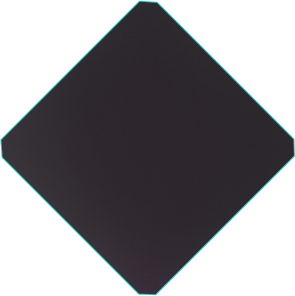
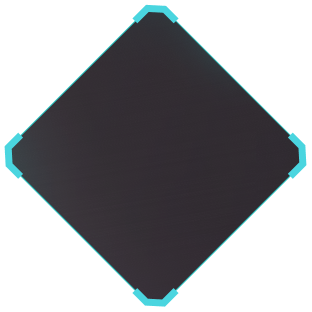
fix: landing page appearence

Changed region(s): [[0.0, 0.0, 1.0, 1.0]]

diff --git a/src/pages/LandingPage/LandingPage.scss b/src/pages/LandingPage/LandingPage.scss
@@ -66,34 +66,39 @@
       &-left {
         background: url("../../assets/img/landing/block-left.png");
         background-size: 570px 138px;
+        margin-right: 20px;
       }
 
       &-right {
         background: url("../../assets/img/landing/block-right.png");
         background-size: 570px 138px;
+        margin-left: 20px;
       }
 
       &-down-left {
         background: url("../../assets/img/landing/block-down-left.png");
         background-size: 570px 138px;
+        margin-right: 20px;
       }
 
       &-down-right {
         background: url("../../assets/img/landing/block-down-right.png");
         background-size: 570px 138px;
+        margin-left: 20px;
       }
 
       &-romb {
         position: relative;
-        top: -280px;
-        width: 220px;
-        height: 220px;
+        top: -320px;
+        width: 300px;
+        height: 300px;
         background: url("../../assets/img/landing/romb.png");
-        background-size: 220px 220px;
+        background-size: 100% 100%;
         display: flex;
         justify-content: center;
         align-items: center;
         flex-direction: column;
+
         &-img {
           margin-bottom: 10px;
         }
@@ -167,25 +172,26 @@
     margin-top: 70px;
 
     &-img {
-        margin-right: 10px;
+      margin-right: 10px;
     }
 
     &-login {
-        margin-bottom: 70px;
-        margin-top: 0px;
+      margin-bottom: 70px;
+      margin-top: 0px;
     }
   }
 
   &__line {
     position: relative;
-    min-width: 425px;
+    min-width: 420px;
+
     &-left {
-      top: -45px;
+      top: -47px;
       right: 350px;
     }
 
     &-right {
-      top: -55px;
+      top: -57px;
       left: 350px;
     }
 
